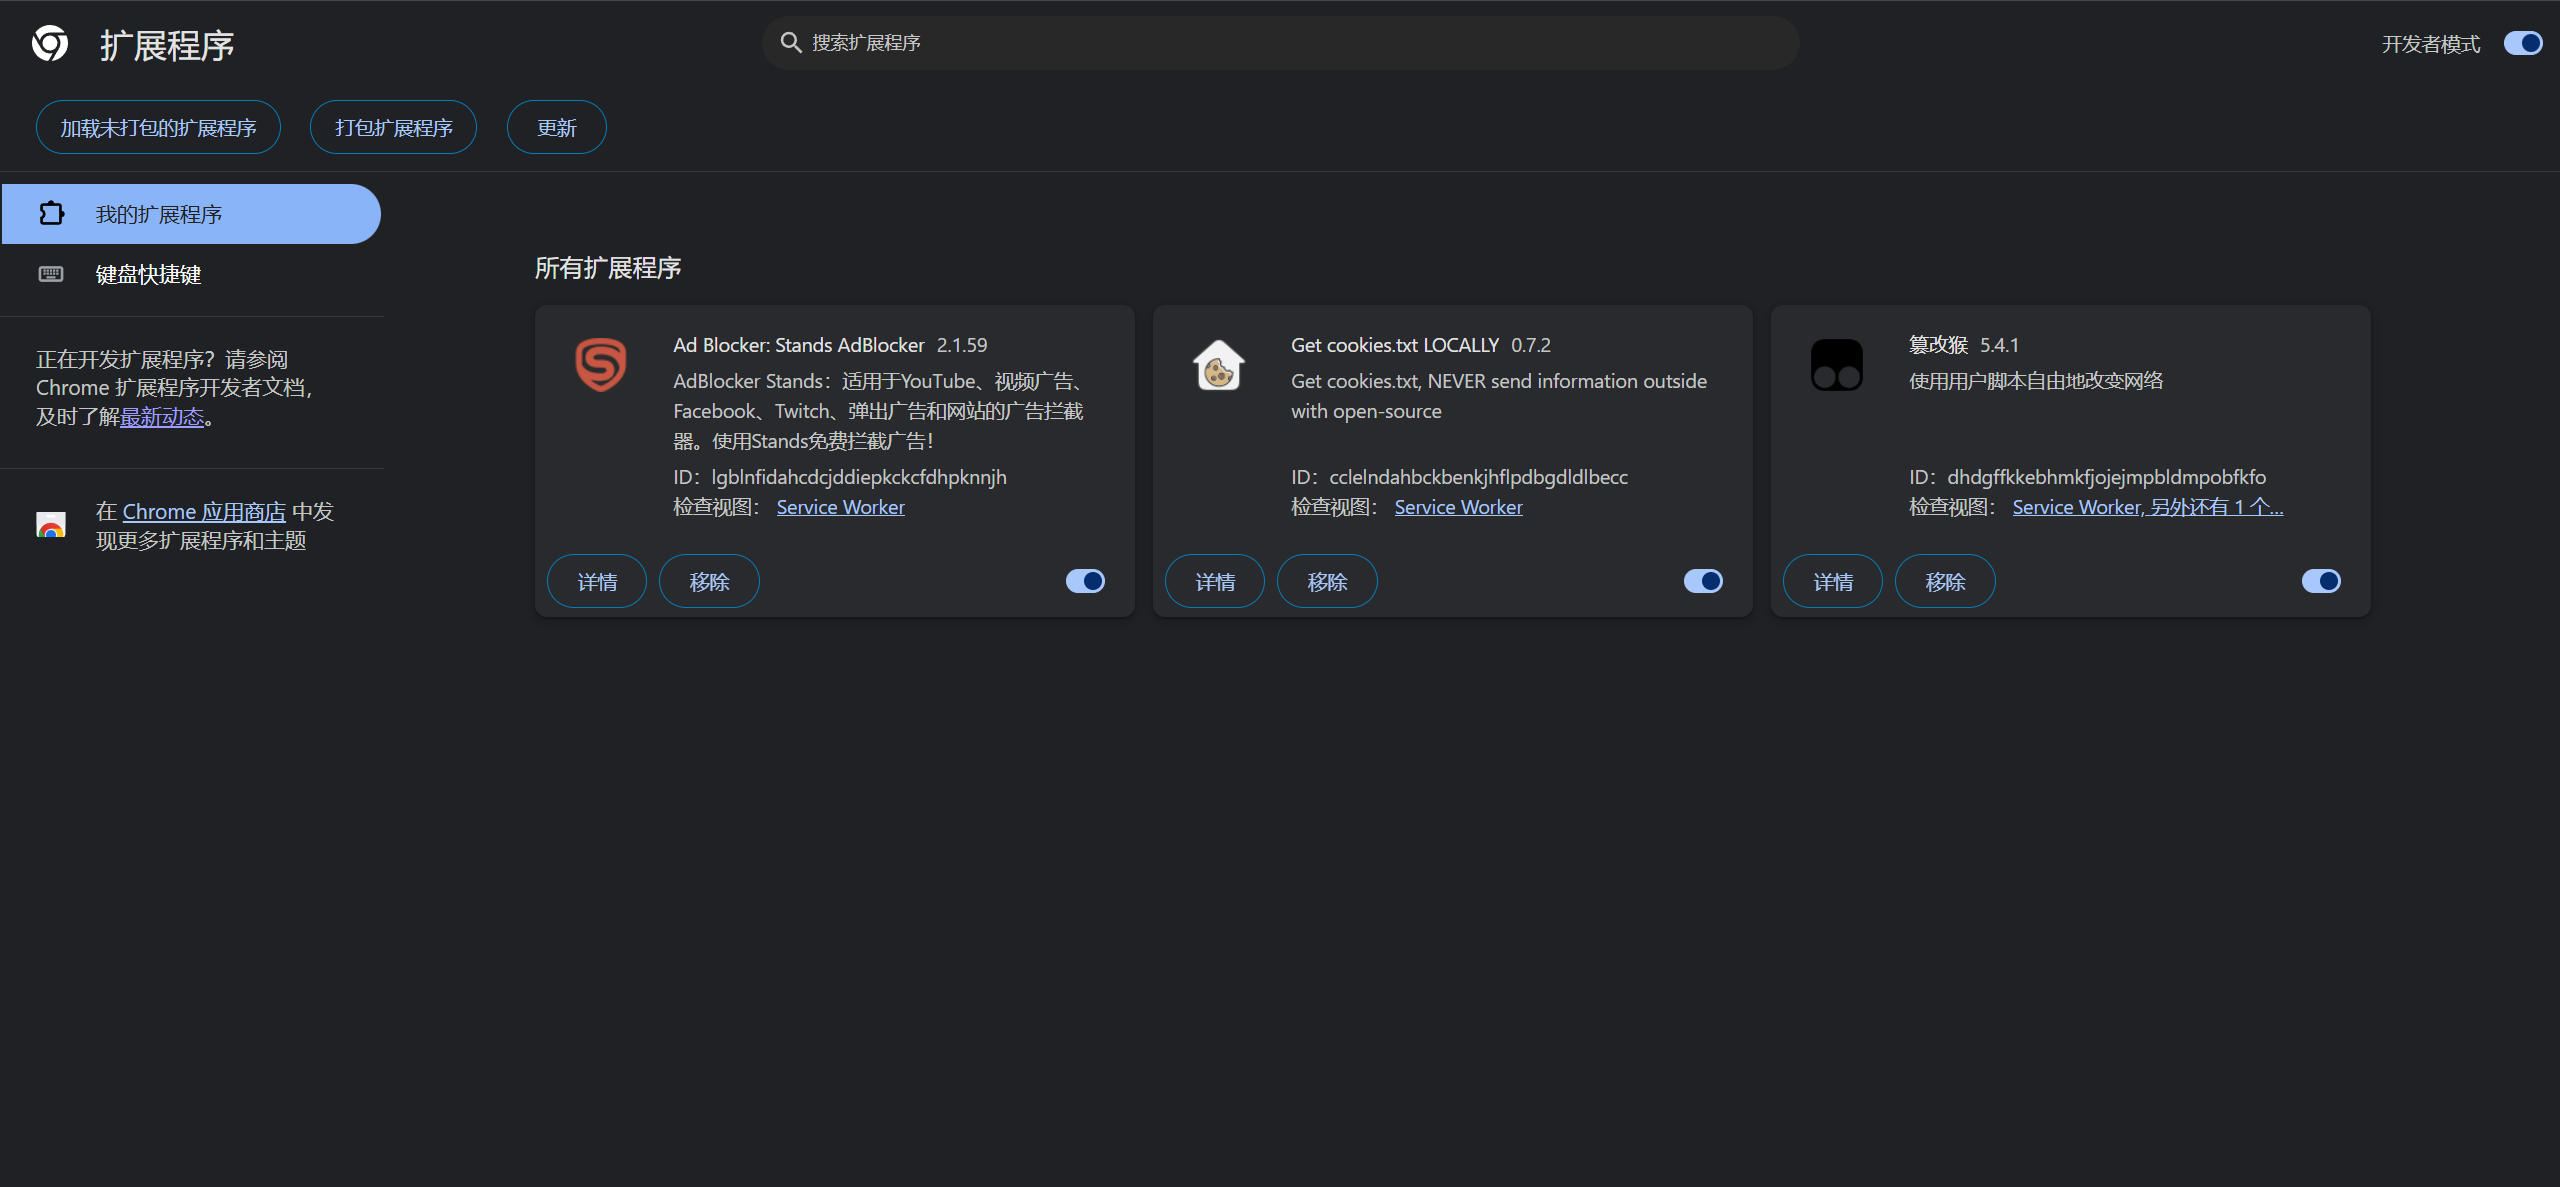
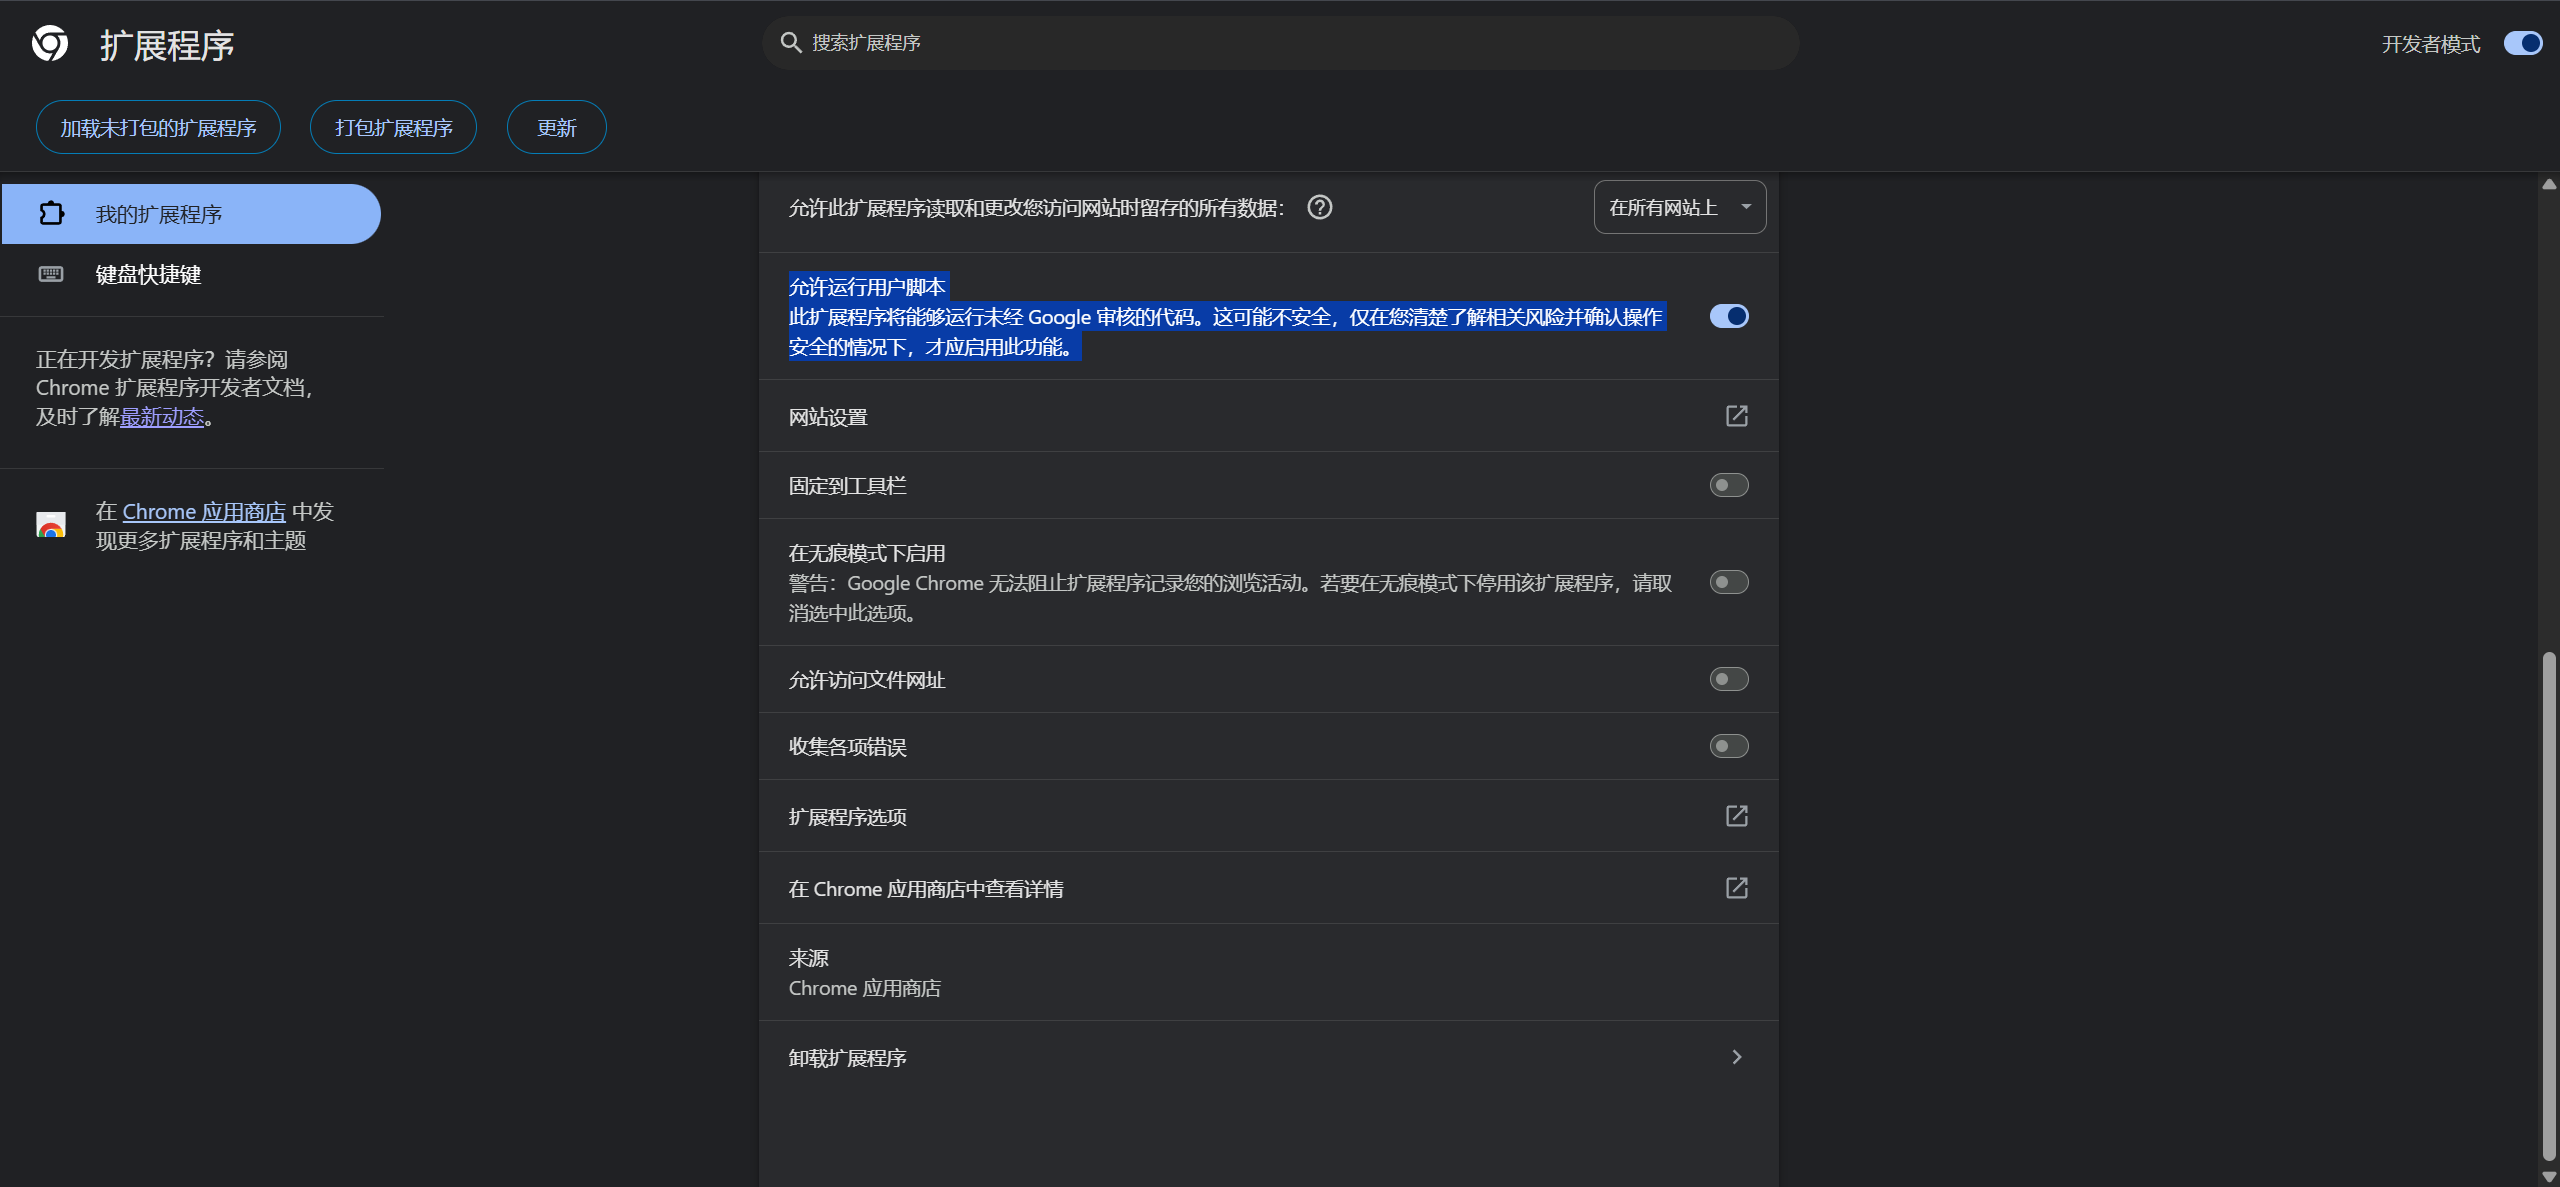
Update README.md

diff --git a/README.md b/README.md
@@ -13,7 +13,7 @@ By [@trailblaziger](https://x.com/trailblaziger)
 ![安装油猴](https://github.com/anonym-g/X-Accounts-Based-in-China-Auto-Mute/raw/main/pictures/install-tampermonkey.png)
 
 ### 2. 开启开发者模式
-进入 Chrome 的扩展程序管理页面 (`chrome://extensions/`)，在右上角打开“开发者模式” (Developer mode)。
+进入 Chrome 的扩展程序管理页面 (`chrome://extensions/`)，在右上角打开“开发者模式” (Developer mode)。然后进入 Tampermonkey 插件“详情”页，开启“允许运行用户脚本”。
 
 *注：部分环境下，如果不开启此模式，脚本可能无法正常注入或运行。*
 
